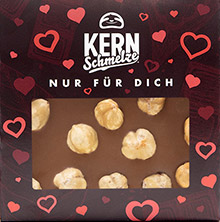
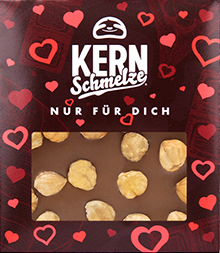
#KS: Formen im Mixer austauschen

diff --git a/custom/plugins/InvMixerProduct/src/Constants.php b/custom/plugins/InvMixerProduct/src/Constants.php
@@ -71,7 +71,9 @@ final class Constants
             self::KS_PACKAGE_DESIGN_1(),
             self::KS_PACKAGE_DESIGN_2(),
             self::KS_PACKAGE_DESIGN_3(),
-            self::KS_PACKAGE_DESIGN_4()
+            self::KS_PACKAGE_DESIGN_4(),
+            self::KS_PACKAGE_DESIGN_5(),
+            self::KS_PACKAGE_DESIGN_6()
         ];
     }
 
@@ -116,6 +118,22 @@ final class Constants
     public static function KS_PACKAGE_DESIGN_4(): Design
     {
         return Design::fromString('design_4');
+    }
+
+    /**
+     * @return Design
+     */
+    public static function KS_PACKAGE_DESIGN_5(): Design
+    {
+        return Design::fromString('design_5');
+    }
+
+    /**
+     * @return Design
+     */
+    public static function KS_PACKAGE_DESIGN_6(): Design
+    {
+        return Design::fromString('design_6');
     }
 
     /**
